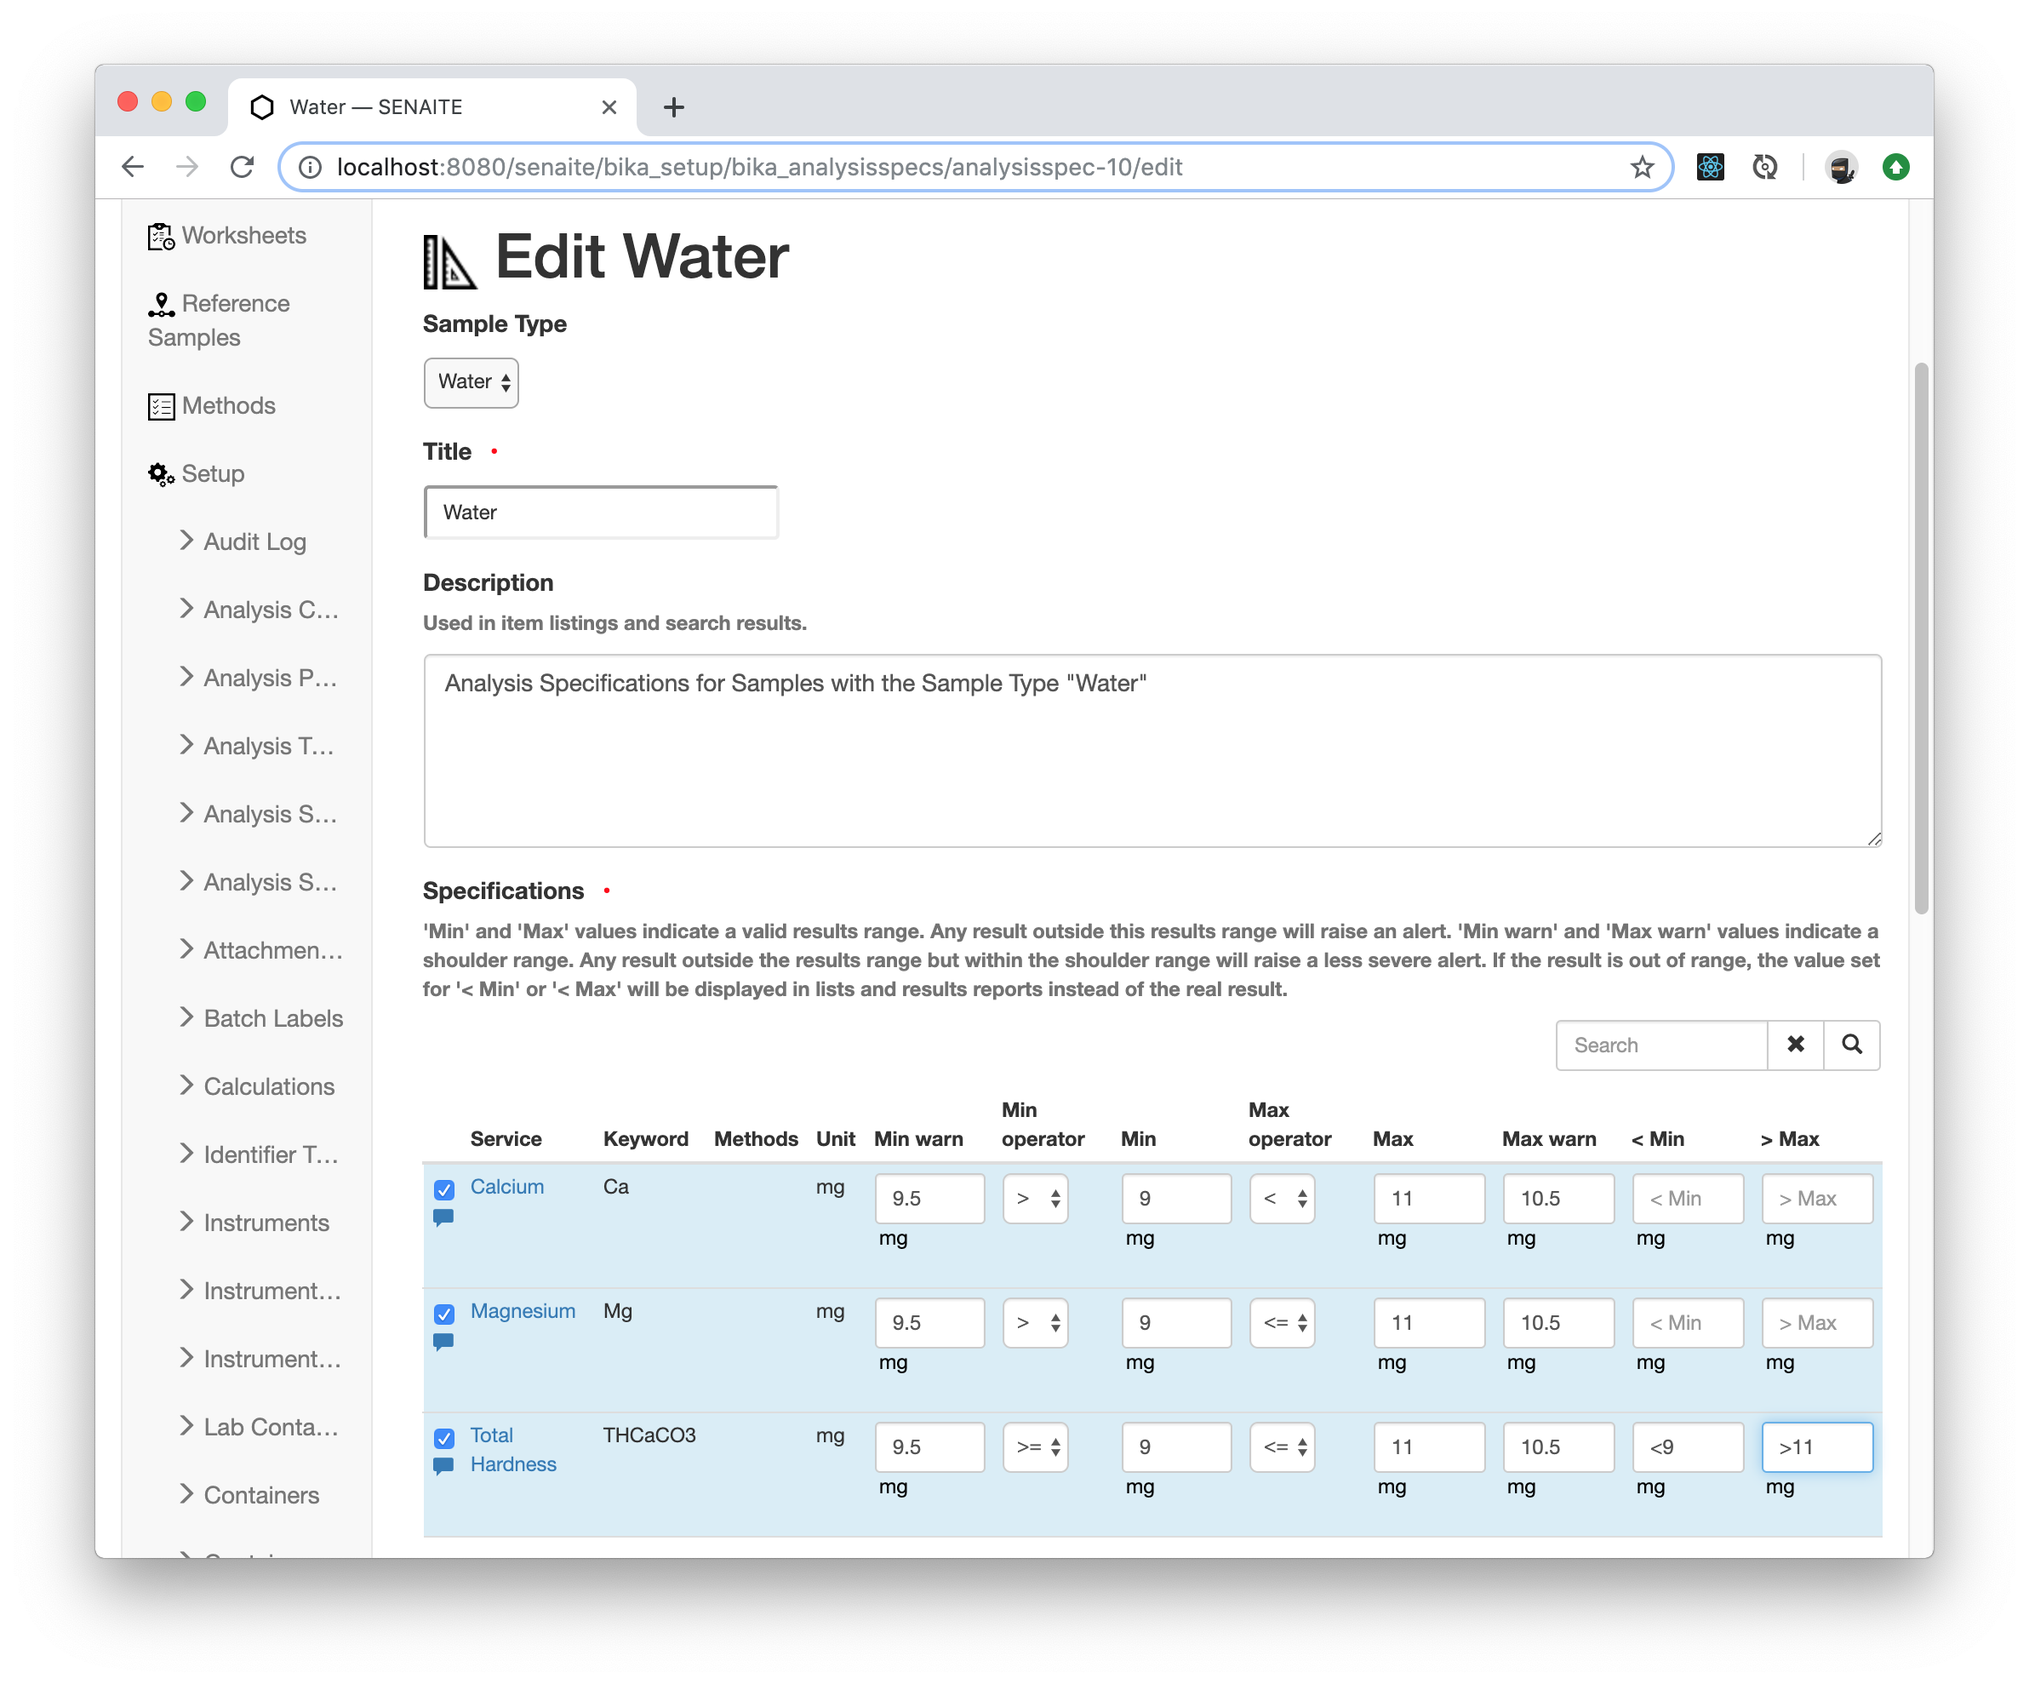
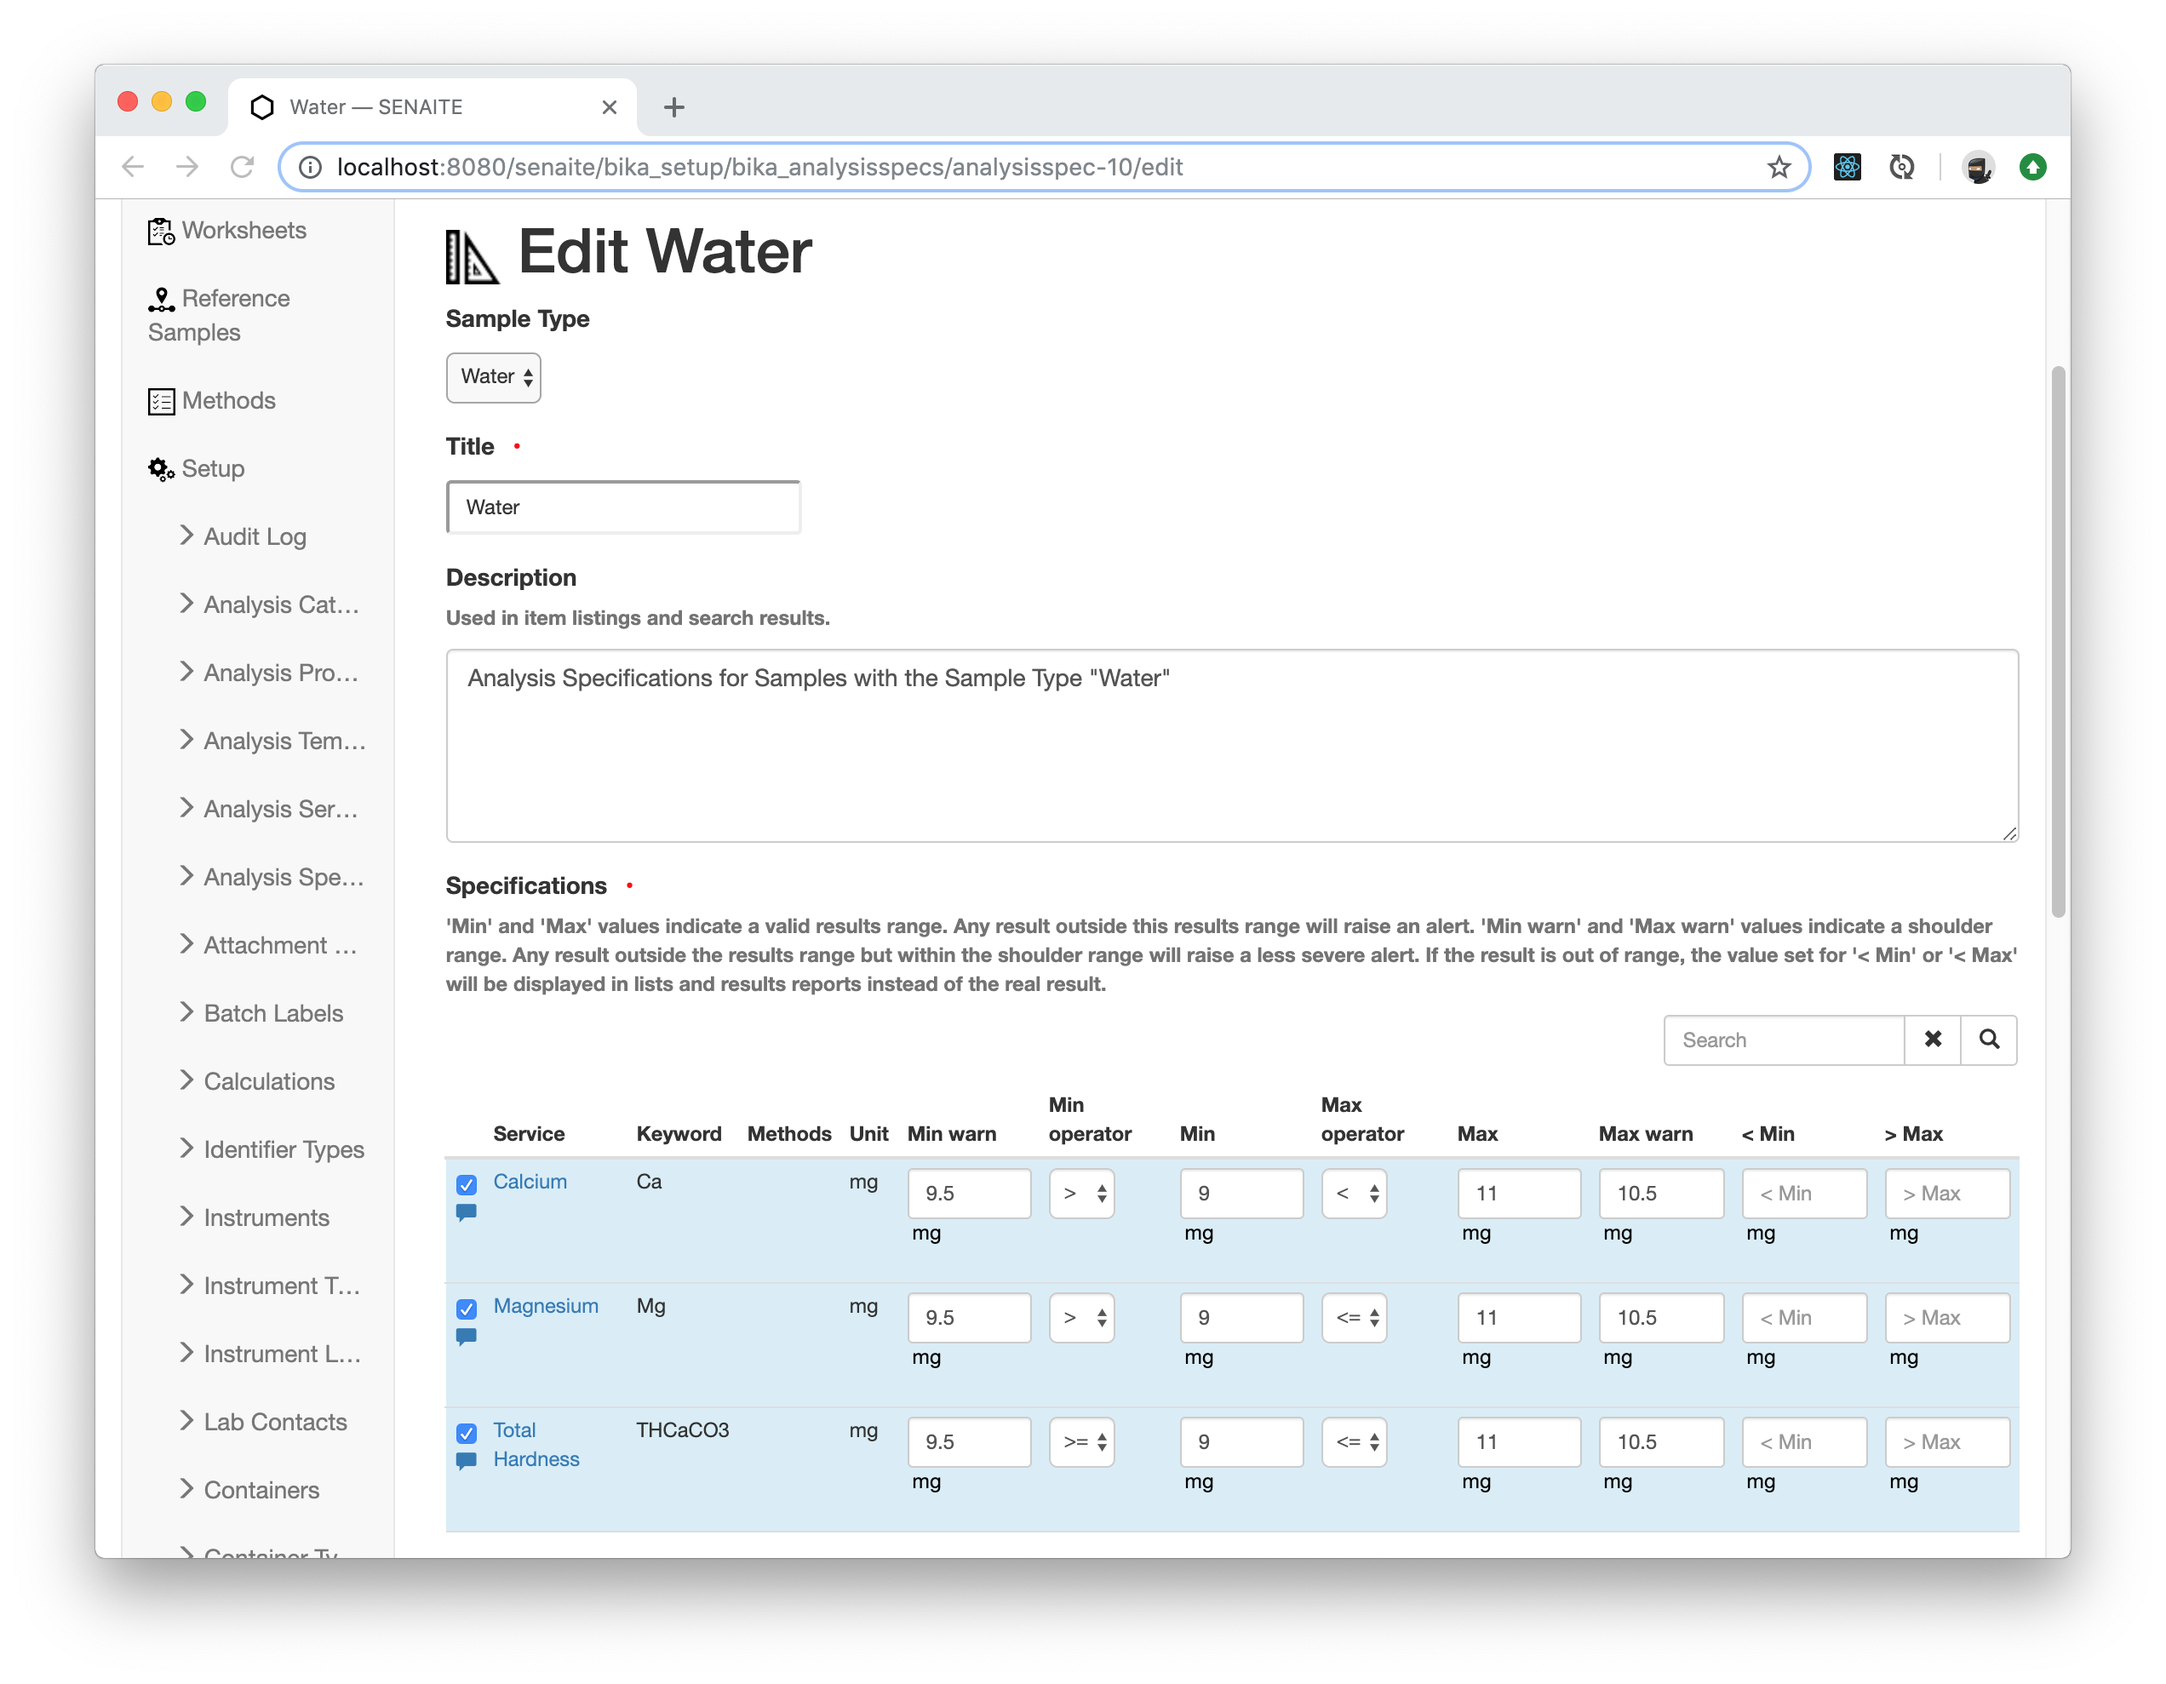
Finished section of Sample Specifications

diff --git a/docs/sample_sepcifications.md b/docs/sample_sepcifications.md
@@ -46,8 +46,6 @@ Enter the following values in the add form:
     - `Max Operator: <=`
     - `Max: 11`
     - `Max warn: 10.5`
-    - `< Min: <9`
-    - `> Max: >11`
 
 Click the *Save* button when you are done.
 
@@ -77,8 +75,11 @@ the minimum allowed value, but includes 11 for the maximum allowed value.
 Now it is time to apply the *Analysis Specification* to a Sample. Navigate to
 the listing of all Samples and copy one of the existing Samples.
 
-Add the new created *Analysis Specification* in the corresponding field and
-press the *Save* button when you are done.
+Add the new created *Analysis Specification* in the corresponding field. Also
+make sure that there are *no manual result ranges* set for the selected Analyses
+in the *Add form* from the previous examples, because they would take
+precedence over the *Analysis Specifications* set in the Sample.
+Press the *Save* button when you are done.
 
 ![Add Sample with Specification](/screenshots/add_sample_with_specification.png "Add Sample with Specification")
 
@@ -90,8 +91,49 @@ Receive the Sample after it was registered as you did in the section [Sample
 Basics](sample-basics#receive-the-sample) and make sure you are in the *View*
 tab of the Sample.
 
+![Sample with Specification](/screenshots/sample_view_with_specifications.png "Sample with Specification")
 
 
+**☝Note:**
+The notation of the braces `(` `)` and brackets `[` `]` next to the values
+define if the values are included or excluded.
+
+Enter the following values as results:
+
+- Calcium: `9`
+- Magnesium: `9`
+- Total Hardness: `9`
+
+Press the *Save* button when you are done and note the *Exclamation Mark* next
+to the `Calcium` and `Magnesium` Analyses notifying that these values are out of
+range when adding the mouse over it.
+
+**☝Note:**
+There is currently a bug in SENAITE Core that you will lose the `Min/Max
+Operator` settings when you manage the Analyses in a Sample created with an
+*Analysis Specification* that defines them.
+Fortunately, there is a workaround that you manually remove all the
+Specifications in the *Manage Analyses* screen before saving. This will re-use
+the values from the *Analysis Specification*.
+
+
+## Publish Out of Range Analyses
+
+Please submit, verify and publish the results as you have done in the
+[Sample Basics](sample-basics#receive-the-sample) section to view the preview
+of the final report.
+
+![Sample Report Preview](/screenshots/sample_publish_preview_out_of_range.png "Sample Report Preview")
+
+The final report shows the defined ranges and added a red warning sign next to
+the results that are out of range.
+
+**☝Note:**
+The final *Analysis Report* can be highly customized to meet almost any lab
+requirement. Contact the professional service providers for any more details.
+
+
+Congratulations 🙌 you successfully learned how to apply *Analysis Specifications* to Samples 
 
 
 [1]: https://en.wikipedia.org/wiki/Greater-than_sign
